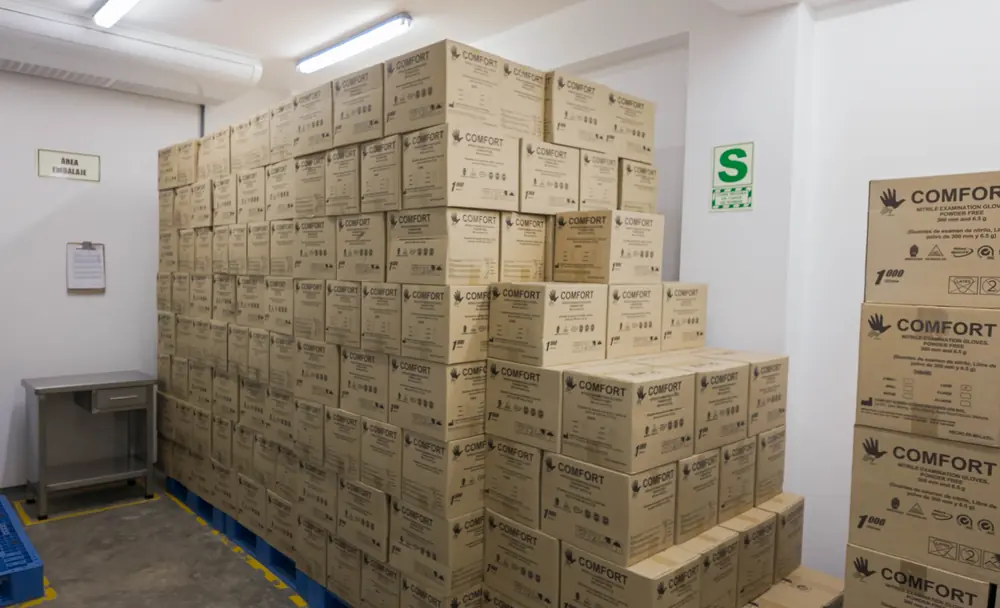
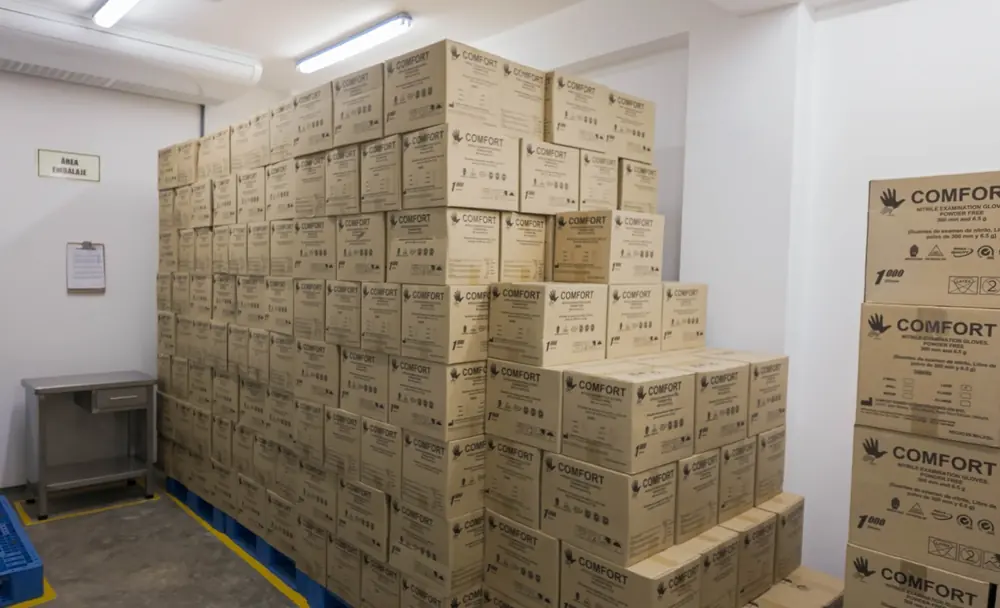
Nuevo titular de certificaciones y foto de Venezuela sin senaletica
La empresa pidio dos cosas sobre la seccion de certificaciones de /nosotros:

- El titular pasa a hablar de la cadena de suministro. Es una frase mucho
  mas larga que la anterior (86 caracteres frente a 44), asi que la medida
  del h2 del componente Respaldo sube de 17 a 22 caracteres por linea: con
  17 se iba a seis lineas y la columna se leia como una torre. Con 22 caen
  cuatro lineas en escritorio, tablet y movil.
- La foto del almacen de la avenida Venezuela con el cartel verde de salida
  se sustituye por la version retocada que entrego la empresa. El original
  se queda en la carpeta; el optimizador apunta al archivo retocado.

diff --git a/scripts/optimize_images.py b/scripts/optimize_images.py
@@ -296,7 +296,9 @@ INSTALACIONES = [
     # El almacen de la avenida Venezuela: carga paletizada, no racks.
     ("Almacén Venezuela (1).jpg", "almacen-venezuela-1"),
     ("Almacén Venezuela (2).jpg", "almacen-venezuela-2"),
-    ("Almacén Venezuela (3).jpg", "almacen-venezuela-3"),
+    # La empresa pidio quitar el cartel de salida que asomaba en la pared:
+    # se usa la version retocada, no la original, que sigue en la carpeta.
+    ("Almacén Venezuela (3) - sin señalética.jpg", "almacen-venezuela-3"),
     # El unico plano con figura humana.
     ("Foto operario almacen.png", "operario-almacen"),
 ]
